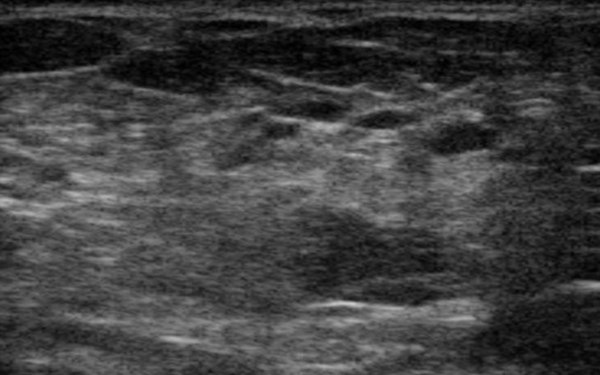
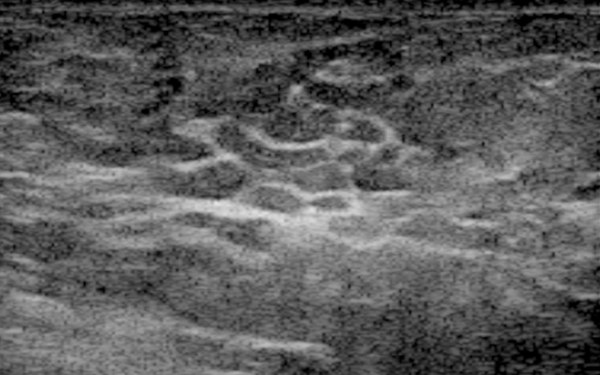
v46: new images, layout fixes, FAQ rows, route guide restored, remove review tags

diff --git a/exam/index.html b/exam/index.html
@@ -54,16 +54,14 @@
         <div class="tb"><b>근골격 초음파</b><p>손 · 발 · 어깨 · 고관절 · 무릎</p><span class="chip2 ok">사전 준비 없음</span></div>
       </a>
       <a class="tcard" href="#ptabs" data-part="e-bx">
-        <div class="timg nopic" role="img" aria-label="초음파 유도 검사 도식">
-          <svg viewBox="0 0 240 150" preserveAspectRatio="xMidYMid slice" aria-hidden="true"><defs><linearGradient id="bxg" x1="0" y1="0" x2="0" y2="1"><stop offset="0" stop-color="#2a4d86"/><stop offset="1" stop-color="#0c1b3c"/></linearGradient></defs><rect width="240" height="150" fill="#0c1b3c"/><path d="M120 -10 L260 150 H-20z" fill="url(#bxg)" opacity=".9"/><circle cx="132" cy="92" r="15" fill="#0c1b3c" stroke="#7fb3ea" stroke-width="2"/><path d="M52 24 L130 90" stroke="#fff" stroke-width="2.4" stroke-linecap="round"/><circle cx="52" cy="24" r="4" fill="#fff"/></svg>
-        </div>
-        <div class="tb"><b>세포흡인 · 조직검사</b><p>유방 · 갑상선 등 결절 검사</p><span class="chip2">의료진 안내에 따름</span></div>
+        <div class="timg" role="img" aria-label="초음파 유도 세포흡인검사 예시" style="background-image:url(../img/us/bx.jpg);background-size:cover;background-position:center"></div>
+        <div class="tb"><b>세포흡인 · 조직검사</b><p>유방 · 갑상선 등 결절 검사</p><span class="chip2">동의서 작성 후 방문</span></div>
       </a>
     </div>
     <p class="types-note">※ 위 영상은 초음파 영상의 이해를 돕기 위한 예시 자료이며, 환자분의 실제 검사 영상이 아닙니다.</p>
   </section>
 
-  <h3 class="sec-h" id="ptabs-h">검사 부위별 안내 · 준비사항 <span class="tbc">의료진 검수 필요</span></h3>
+  <h3 class="sec-h" id="ptabs-h">검사 부위별 안내 · 준비사항</h3>
 
   <div class="subtabs" id="ptabs" role="tablist">
     <button class="on" data-s="e-abd">상·하복부</button>
@@ -76,7 +74,7 @@
 
   <!-- 상·하복부 -->
   <div class="sp on" id="e-abd">
-    <div class="ex-sum"><div><span class="k">검사 부위</span><b>간 · 담낭 · 담도 · 췌장 · 비장 · 신장 · 방광 등</b></div><div><span class="k">소요시간</span><b>약 5~10분</b></div><div><span class="k">준비</span><b>상복부 8시간 이상 금식 · 하복부 소변 참고 오기</b></div></div>
+    <div class="ex-sum wide3"><div><span class="k">검사 부위</span><b>간 · 담낭 · 담도 · 췌장 · 비장 · 신장 · 방광 등</b></div><div><span class="k">소요시간</span><b>약 5~10분</b></div><div><span class="k">준비</span><b>상복부 8시간 이상 금식 · 하복부 소변 참고 오기</b></div></div>
     <div class="grid g2" style="align-items:start">
       <div class="card"><h3 data-i="i-faq">어떤 검사인가요?</h3><p>배 안쪽의 간, 담낭, 담도, 췌장, 비장, 신장 등 상복부 장기와 방광 등 하복부 장기의 모양과 크기, 내부 구조를 확인하는 검사입니다. 건강검진과 복통·소화기·배뇨 증상 평가에 많이 시행됩니다.</p></div>
       <div class="card"><h3 data-i="i-check">확인할 수 있는 것</h3><ul><li>지방간, 간경변 등 간 질환</li><li>간·신장의 낭종 및 종양</li><li>담석, 담낭 용종, 담낭염</li><li>신장 결석, 수신증, 복수</li><li>방광 결석, 방광 종양 등</li></ul></div>
@@ -102,7 +100,7 @@
   <div class="sp" id="e-brs">
     <div class="ex-sum"><div><span class="k">검사 부위</span><b>유방 · 겨드랑이 림프절</b></div><div><span class="k">소요시간</span><b>약 15~25분</b></div><div><span class="k">준비</span><b>금식 불필요</b></div></div>
     <div class="grid g2" style="align-items:start">
-      <div class="card"><h3 data-i="i-faq">어떤 검사인가요?</h3><p>유방의 내부 구조를 확인하는 검사로, 유방촬영술(맘모그래피)로 잘 보이지 않는 치밀 유방이나 만져지는 멍울을 평가하는 데 도움이 됩니다.</p></div>
+      <div class="card"><h3 data-i="i-faq">어떤 검사인가요?</h3><p>유방의 내부 구조를 확인하는 검사로, 유방촬영술(맘모그래피)로 잘&nbsp;보이지&nbsp;않는 치밀 유방이나 만져지는 멍울을 평가하는 데 도움이 됩니다.</p></div>
       <div class="card"><h3 data-i="i-check">확인할 수 있는 것</h3><ul><li>유방 낭종, 섬유선종 등 결절</li><li>유방촬영에서 발견된 병변의 추가 평가</li><li>겨드랑이 림프절 상태</li></ul></div>
       <div class="card"><h3 data-i="i-exam">검사 전 준비</h3><ul><li>금식이나 물 섭취 제한은 없습니다.</li><li>상·하의가 분리된 옷을 입고 오세요.</li><li>임신 중이거나 가능성이 있으면 미리 알려주세요.</li><li>이전 유방촬영·초음파 자료가 있으면 지참해주세요.</li></ul></div>
       <div class="card"><h3 data-i="i-scan">검사 방법</h3><ol class="ol"><li>상의를 탈의하고 가운을 착용합니다.</li><li>누운 자세에서 팔을 머리 위로 올립니다.</li><li>젤을 바르고 유방과 겨드랑이를 차례로 촬영합니다.</li></ol></div>
@@ -125,7 +123,7 @@
   <div class="sp" id="e-msk">
     <div class="ex-sum"><div><span class="k">검사 부위</span><b>손 · 발 · 어깨 · 고관절 · 무릎 · 연부조직 결절 등</b></div><div><span class="k">소요시간</span><b>약 15~30분</b></div><div><span class="k">준비</span><b>금식 불필요</b></div></div>
     <div class="grid g2" style="align-items:start">
-      <div class="card"><h3 data-i="i-faq">어떤 검사인가요?</h3><p>관절 주위의 힘줄, 인대, 근육, 연부조직을 확인하는 검사입니다. 관절을 움직이면서 실시간으로 확인하는 동적 검사가 가능한 것이 장점입니다.</p></div>
+      <div class="card"><h3 data-i="i-faq">어떤 검사인가요?</h3><p>관절 주위의 힘줄, 인대, 근육, 연부조직을 확인하는 검사입니다.<br>관절을 움직이면서 실시간으로 확인하는 동적 검사가 가능한 것이 장점입니다.</p></div>
       <div class="card"><h3 data-i="i-check">확인할 수 있는 것</h3><ul><li>어깨 회전근개 힘줄염·파열</li><li>힘줄염, 인대 손상, 근육 파열</li><li>관절 삼출액, 활액막염</li><li>연부조직 낭종·결절종, 족저근막염</li></ul></div>
       <div class="card"><h3 data-i="i-exam">검사 전 준비</h3><ul><li>금식이나 물 섭취 제한은 없습니다.</li><li>검사 부위를 쉽게 노출할 수 있는 옷을 입으세요.</li><li>엑스레이 처방이 있다면 촬영 후 초음파를 시행합니다.</li><li>이전 X-ray·MRI 자료가 있으면 지참해주세요.</li></ul></div>
       <div class="card"><h3 data-i="i-scan">검사 방법</h3><ol class="ol"><li>검사 부위를 노출하고 앉거나 눕습니다.</li><li>젤을 바르고 탐촉자로 촬영합니다.</li><li>"팔(다리)을 움직여 보세요" 요청을 받을 수 있습니다.</li></ol></div>
@@ -134,14 +132,14 @@
 
   <!-- 세포흡인·조직검사 -->
   <div class="sp" id="e-bx">
-    <div class="ex-sum"><div><span class="k">검사 대상</span><b>유방 · 갑상선 등의 결절·병변</b></div><div><span class="k">소요시간</span><b>부위·병변에 따라 상이</b></div><div><span class="k">준비</span><b>의료진 안내에 따름</b></div></div>
+    <div class="ex-sum"><div><span class="k">검사 대상</span><b>유방 · 갑상선 등의 결절·병변</b></div><div><span class="k">소요시간</span><b>약 15~20분</b></div><div><span class="k">준비</span><b>외래 동의서 작성 후 방문</b></div></div>
     <div class="grid g2" style="align-items:start">
       <div class="card"><h3 data-i="i-faq">어떤 검사인가요?</h3><p>초음파로 병변을 확인하면서 가는 바늘로 세포를 채취하는 <b>세포흡인검사</b> 또는 조직을 채취하는 <b>조직검사</b>입니다. 초음파 검사에서 결절이나 병변이 의심되어 의료진이 필요하다고 판단한 경우에 시행합니다.</p></div>
       <div class="card"><h3 data-i="i-check">시행하는 경우</h3><ul><li>갑상선 결절이 의심될 때</li><li>유방 결절·병변이 의심될 때</li><li>그 밖에 초음파로 확인되는 림프절·병변</li></ul></div>
-      <div class="card"><h3 data-i="i-exam">검사 전 주의사항</h3><ul><li>복용 중인 약, 특히 <b>아스피린·항응고제 등 혈액을 묽게 하는 약</b>이 있으면 임의로 중단하지 말고 미리 알려주세요.</li><li>출혈이 잘 멎지 않은 적이 있거나 약물 알레르기가 있으면 알려주세요.</li><li>임신 중이거나 가능성이 있으면 미리 알려주세요.</li><li>식사 등 당일 준비는 의료진 안내에 따라 주세요.</li></ul></div>
+      <div class="card"><h3 data-i="i-exam">검사 전 주의사항</h3><ul><li><b>검사 전 외래에서 동의서를 작성</b>한 후 방문해 주세요.</li><li><b>항혈전제(아스피린·항응고제 등)를 중단하지 않고 오셨다면</b>, 검사 당일 꼭 미리 말씀해 주세요.</li><li>출혈이 잘 멎지 않은 적이 있거나 약물 알레르기가 있으면 알려주세요.</li><li>임신 중이거나 가능성이 있으면 미리 알려주세요.</li></ul></div>
       <div class="card"><h3 data-i="i-scan">검사 방법</h3><ol class="ol"><li>검사 부위를 노출하고 편안한 자세로 눕습니다.</li><li>부위를 소독한 뒤 초음파로 병변 위치를 확인합니다.</li><li>초음파를 보면서 바늘로 세포 또는 조직을 채취합니다.</li><li>검사 후 해당 부위를 눌러 지혈합니다.</li></ol></div>
     </div>
-    <div class="notice">검사 후 시술 부위의 출혈·부기·심한 통증이 있으면 병원으로 문의해 주세요. 결과는 예약된 진료일에 외래에서 안내받으실 수 있습니다. <span class="tbc">의료진 검수 필요</span></div>
+    <div class="notice">검사 후 시술 부위의 출혈·부기·심한 통증이 있으면 병원으로 문의해 주세요. 결과는 예약된 진료일에 외래에서 안내받으실 수 있습니다.</div>
   </div>
 </main>
 <script src="../assets/site.js"></script>

diff --git a/faq/index.html b/faq/index.html
@@ -8,19 +8,15 @@
 </head>
 <body data-title="자주 묻는 질문" data-page="faq" data-root="../">
 <main class="wrap">
-  <div class="ptitle"><h2>자주 묻는 질문</h2><p>검사 전 가장 많이 문의하시는 내용입니다. <span class="tbc">내용 검수 필요</span></p></div>
-  <div class="grid g2" style="align-items:start">
-    <div>
+  <div class="ptitle"><h2>자주 묻는 질문</h2><p>검사 전 가장 많이 문의하시는 내용입니다.</p></div>
+  <div class="faqg">
       <details open><summary><span>검사 시간은 얼마나 걸리나요?</span></summary><div class="a">보통 10~15분 정도 소요됩니다. 대기시간은 혼잡도에 따라 달라질 수 있습니다.</div></details>
-      <details open><summary><span>아침에 약을 먹어도 되나요?</span></summary><div class="a">대부분의 약은 소량의 물과 함께 복용 가능합니다. 당뇨약·인슐린은 금식 시 저혈당 위험이 있으므로 처방 의료진과 상담하세요.</div></details>
-      <details open><summary><span>검사가 아픈가요?</span></summary><div class="a">통증은 거의 없습니다. 탐촉자를 대고 약간 누르는 느낌이 있을 수 있습니다. 검사에 사용하는 젤은 차갑지 않습니다.</div></details>
-      <details open><summary><span>세포흡인검사·조직검사 전에 주의할 점이 있나요?</span></summary><div class="a">복용 중인 약, 특히 아스피린·항응고제 등 혈액을 묽게 하는 약이 있다면 임의로 중단하지 말고 미리 알려주세요. 출혈이 잘 멎지 않은 적이 있거나 알레르기, 임신 가능성이 있을 때도 알려주세요. 검사 후 시술 부위의 출혈·부기·심한 통증이 있으면 병원으로 문의해 주세요. 당일 식사 등 준비는 의료진 안내에 따릅니다. <span class="tbc">의료진 검수 필요</span></div></details>
-    </div>
-    <div>
       <details open><summary><span>예약 없이 검사받을 수 있나요?</span></summary><div class="a">초음파 검사는 진료 후 처방된 경우 예약이 필요합니다. 예약 변경은 대표전화로 문의해주세요.</div></details>
+      <details open><summary><span>아침에 약을 먹어도 되나요?</span></summary><div class="a">대부분의 약은 소량의 물과 함께 복용 가능합니다. 당뇨약·인슐린은 금식 시 저혈당 위험이 있으므로 처방 의료진과 상담하세요.</div></details>
       <details open><summary><span>결과는 언제 알 수 있나요?</span></summary><div class="a">검사 결과는 처방 진료과 외래 진료 시 의료진에게 들으실 수 있습니다. 판독 완료 시기는 검사에 따라 다릅니다.</div></details>
+      <details open><summary><span>검사가 아픈가요?</span></summary><div class="a">통증은 거의 없습니다. 탐촉자를 대고 약간 누르는 느낌이 있을 수 있습니다. 검사에 사용하는 젤은 차갑지 않습니다.</div></details>
       <details open><summary><span>보호자가 함께 들어갈 수 있나요?</span></summary><div class="a">원칙적으로 환자 본인만 검사실에 입실합니다. 소아·거동이 불편한 환자는 보호자 동반이 가능합니다.</div></details>
-    </div>
+      <details open class="wide"><summary><span>세포흡인검사·조직검사 전에 주의할 점이 있나요?</span></summary><div class="a">검사 전 외래에서 동의서를 작성한 후 방문해 주세요. 항혈전제(아스피린·항응고제 등)를 중단하지 않고 오셨다면 검사 당일 꼭 미리 말씀해 주세요. 출혈이 잘 멎지 않은 적이 있거나 알레르기, 임신 가능성이 있을 때도 알려주세요. 검사 후 시술 부위의 출혈·부기·심한 통증이 있으면 병원으로 문의해 주세요.</div></details>
   </div>
 </main>
 <script src="../assets/site.js"></script>

diff --git a/location/index.html b/location/index.html
@@ -8,13 +8,42 @@
 </head>
 <body data-title="초음파실 위치" data-page="location" data-root="../">
 <main class="wrap">
-  <div class="ptitle"><h2>초음파실 위치</h2><p>본관 3층 영상의학과 내 <b>초음파검사실</b></p></div>
-  <div class="card loc-soon">
-    <h3 data-i="i-pin">본관 3층 영상의학과</h3>
-    <p>수납 후 본관 3층 영상의학과 접수에서 접수하시고, 초음파실 전광판을 확인한 뒤 호명을 기다려 주세요.</p>
-    <p class="soon">상세 약도는 준비 중입니다. 길 안내가 필요하시면 대표전화 <b>02-2290-8114</b>로 문의해 주세요.</p>
+  <div class="ptitle"><h2>초음파실 위치</h2><p>본관 3층 영상의학과 내 <b>초음파검사실</b> · 이용하시는 입구를 선택하면 이동 방법이 표시됩니다.</p></div>
+
+  <div id="routeBtns" class="routes loc-routes"></div>
+
+  <div class="card route-wrap">
+    <h3 id="rt">이동 방법</h3>
+    <ol class="route" id="steps"></ol>
+    <p style="font-size:13px;color:var(--sub);margin-top:10px">※ 현장 안내 표지를 함께 확인해주세요. 상세 약도는 준비 중입니다.</p>
   </div>
 </main>
 <script src="../assets/site.js"></script>
+<script>
+(function(){
+  var R=[
+    {n:'서관·상단 에스컬레이터',
+     t:['서관 6층 방향 또는 본관 에스컬레이터로 <b>3층</b>에 올라옵니다.','에스컬레이터에서 나와 아래쪽(CT·X-ray 방향) 통로로 이동합니다.','오른쪽 <b>영상의학과</b> 복도로 진입해 끝까지 직진합니다.','복도 안쪽 <b>초음파실</b> 접수 후 대기합니다.']},
+    {n:'본관 엘리베이터',
+     t:['본관 엘리베이터를 타고 <b>3층</b>에서 내립니다.','내리면 바로 오른쪽이 <b>영상의학과</b> 구역입니다.','복도를 따라 안쪽으로 직진합니다.','<b>초음파실</b> 접수 후 대기합니다.']},
+    {n:'응급센터·동관 통로',
+     t:['응급센터 · 동관 연결통로로 3층에 들어옵니다.','통로를 따라 위쪽으로 직진합니다.','<b>영상의학과</b> 복도에서 오른쪽으로 꺾어 이동합니다.','<b>초음파실</b> 접수 후 대기합니다.']},
+    {n:'서관 3층 연결',
+     t:['서관 3층에서 본관 방향 연결통로로 이동합니다.','통로 끝에서 바로 <b>영상의학과</b> 구역에 도착합니다.','<b>초음파실</b> 접수 후 대기합니다.']}
+  ];
+  var btns=document.getElementById('routeBtns'),st=document.getElementById('steps');
+  function draw(i){
+    var r=R[i];
+    st.innerHTML=r.t.map(function(x){return '<li><span>'+x+'</span></li>'}).join('');
+    document.getElementById('rt').textContent=['①','②','③','④'][i]+' '+r.n+'에서 오는 길';
+    [].forEach.call(btns.children,function(b,j){b.classList.toggle('on',j===i)});
+  }
+  R.forEach(function(r,i){
+    var b=document.createElement('button');b.innerHTML='<i>'+(i+1)+'</i>'+r.n;
+    b.onclick=function(){draw(i)};btns.appendChild(b);
+  });
+  draw(0);
+})();
+</script>
 </body>
 </html>

diff --git a/index.html b/index.html
@@ -21,7 +21,7 @@
     <header class="sh">
       <span class="sh-eyebrow">ABOUT ULTRASOUND</span>
       <h2>초음파 검사란?</h2>
-      <p>사람의 귀에는 들리지 않는 높은 주파수의 음파를 몸속으로 보내고, 조직에서 되돌아오는 반사파를 영상으로 만들어 장기의 모양과 움직임을 관찰하는 검사입니다. <span class="tbc">의료진 검수 필요</span></p>
+      <p>사람의 귀에는 들리지 않는 높은 주파수의 음파를 몸속으로 보내고, 조직에서 되돌아오는 반사파를 영상으로 만들어 장기의 모양과 움직임을 관찰하는 검사입니다.</p>
     </header>
 
     <ol class="flow">
@@ -139,7 +139,7 @@
   <div class="wrap">
     <div class="infocard">
       <div><span data-i="i-pin"></span><span class="k">위치</span><b>본관 3층 영상의학과</b></div>
-      <div><span data-i="i-clock"></span><span class="k">운영시간</span><b>평일 08:30~17:30 <span class="tbc">확인 필요</span></b></div>
+      <div><span data-i="i-clock"></span><span class="k">운영시간</span><b>평일 08:30~17:30</b></div>
       <div><span data-i="i-phone"></span><span class="k">대표전화</span><b>02-2290-8114</b></div>
     </div>
     <h2 class="band-h">이용안내</h2>

diff --git a/assets/style.css b/assets/style.css
@@ -945,3 +945,25 @@ body .ft details.ddm summary{border-radius:0}
 .loc-soon p{margin:8px 0 0;line-height:1.75;color:#333}
 .loc-soon .soon{color:var(--sub);background:var(--bg);border-radius:6px;padding:14px 16px;margin-top:16px}
 @media(max-width:640px){.types-in{margin:30px 0 8px}.loc-soon{padding:20px}}
+
+/* ===== v46: 레이아웃 정리 ===== */
+/* 검사 종류 카드: 링크 제거, 높이 통일 */
+.tcard{display:flex;flex-direction:column;height:100%}
+.tcard .tb{flex:1;display:flex;flex-direction:column;align-items:flex-start}
+.tcard .tb p{margin-bottom:12px}
+.tcard .tb .chip2{margin-top:auto}
+.types-grid{align-items:stretch}
+/* 부위별 요약 줄 */
+.ex-sum.wide3{grid-template-columns:2fr 1fr}
+.ex-sum.wide3>div:nth-child(3){grid-column:1/-1}
+@media(max-width:900px){.ex-sum.wide3{grid-template-columns:1fr}}
+.card p{word-break:keep-all}
+/* FAQ: 행 정렬 */
+.faqg{display:grid;grid-template-columns:1fr 1fr;gap:0 24px;align-items:stretch}
+.faqg details{display:flex;flex-direction:column;margin-bottom:18px}
+.faqg details.wide{grid-column:1/-1}
+.faqg details .a{flex:1}
+@media(max-width:900px){.faqg{grid-template-columns:1fr}}
+/* 위치: 경로 안내 */
+.route-wrap{max-width:860px}
+.loc-routes{margin:18px 0 12px}

diff --git a/directions/index.html b/directions/index.html
@@ -71,7 +71,7 @@
 
   <!-- 주차 -->
   <div class="sp" id="s-park">
-    <div class="hl"><b>초음파 검사(각종 검사)</b> 시 <b>4시간 무료주차</b> · 당일 진료비계산서/영수증을 제시하세요. <span class="tbc">확인 필요</span></div>
+    <div class="hl"><b>초음파 검사(각종 검사)</b> 시 <b>4시간 무료주차</b> · 당일 진료비계산서/영수증을 제시하세요.</div>
     <div class="grid g2" style="align-items:start">
       <div>
         <h3 class="sub-h" style="margin-top:0">주차요금 <small style="font-weight:400;color:var(--sub)">(위치: 주차타워 1층)</small></h3>
